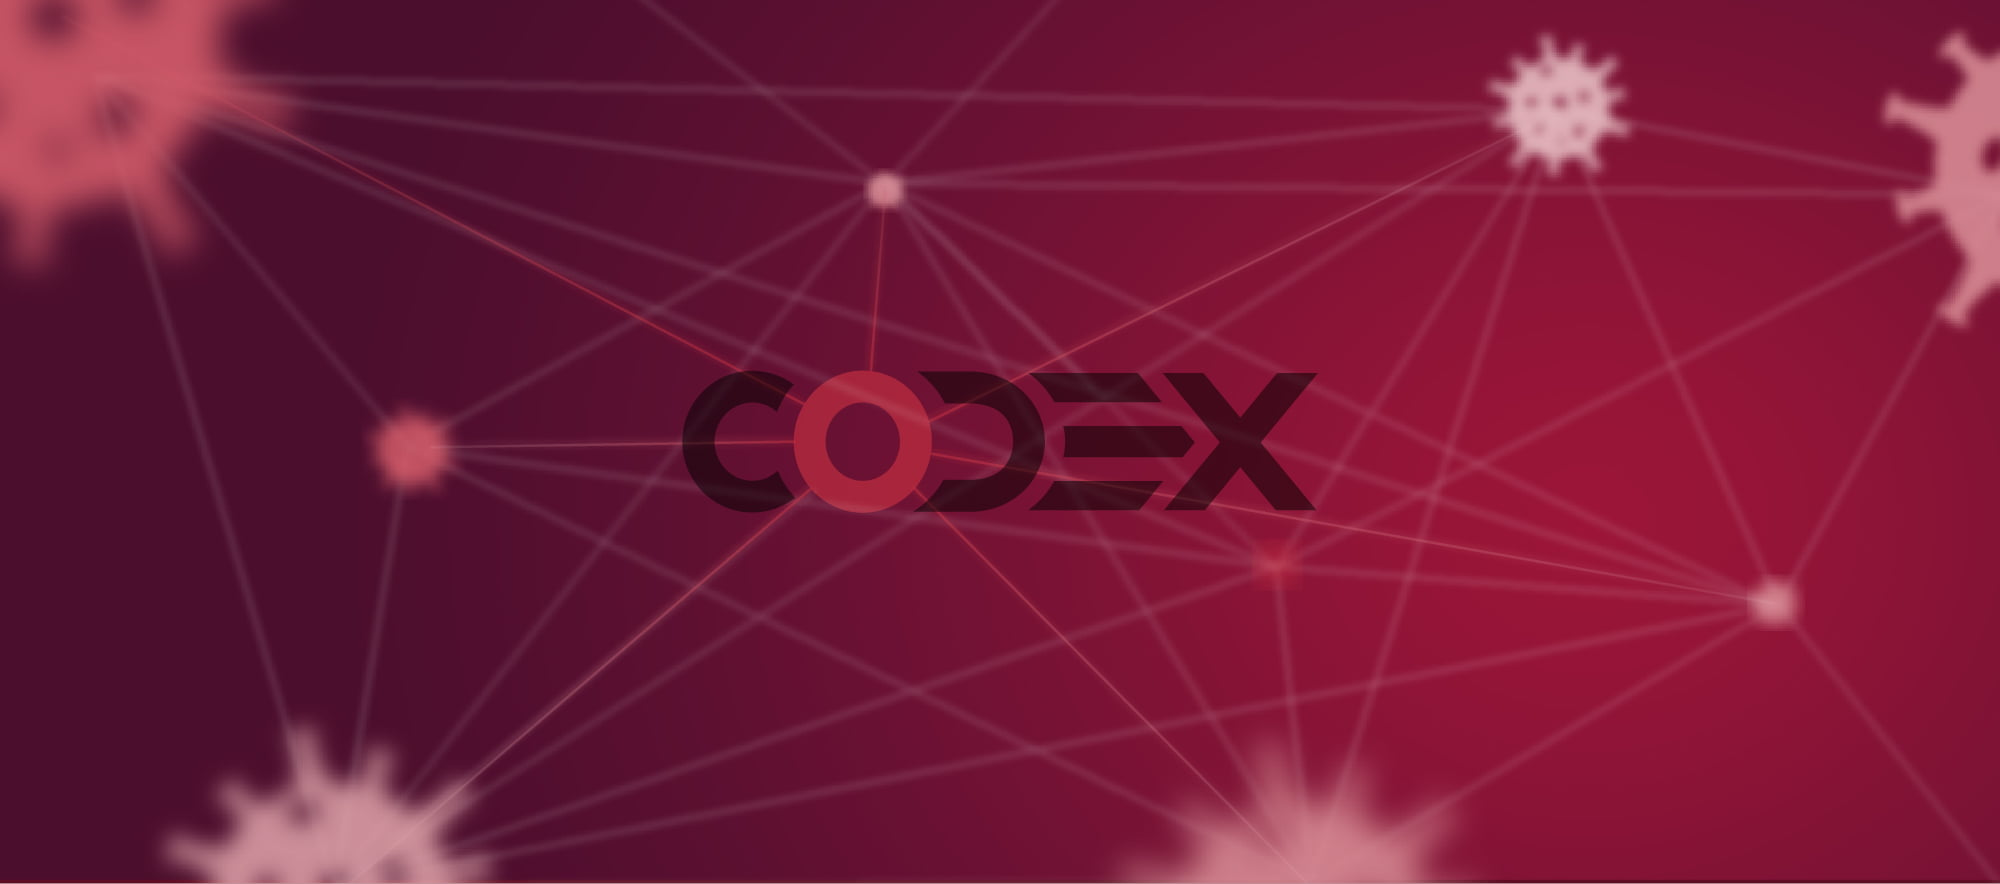
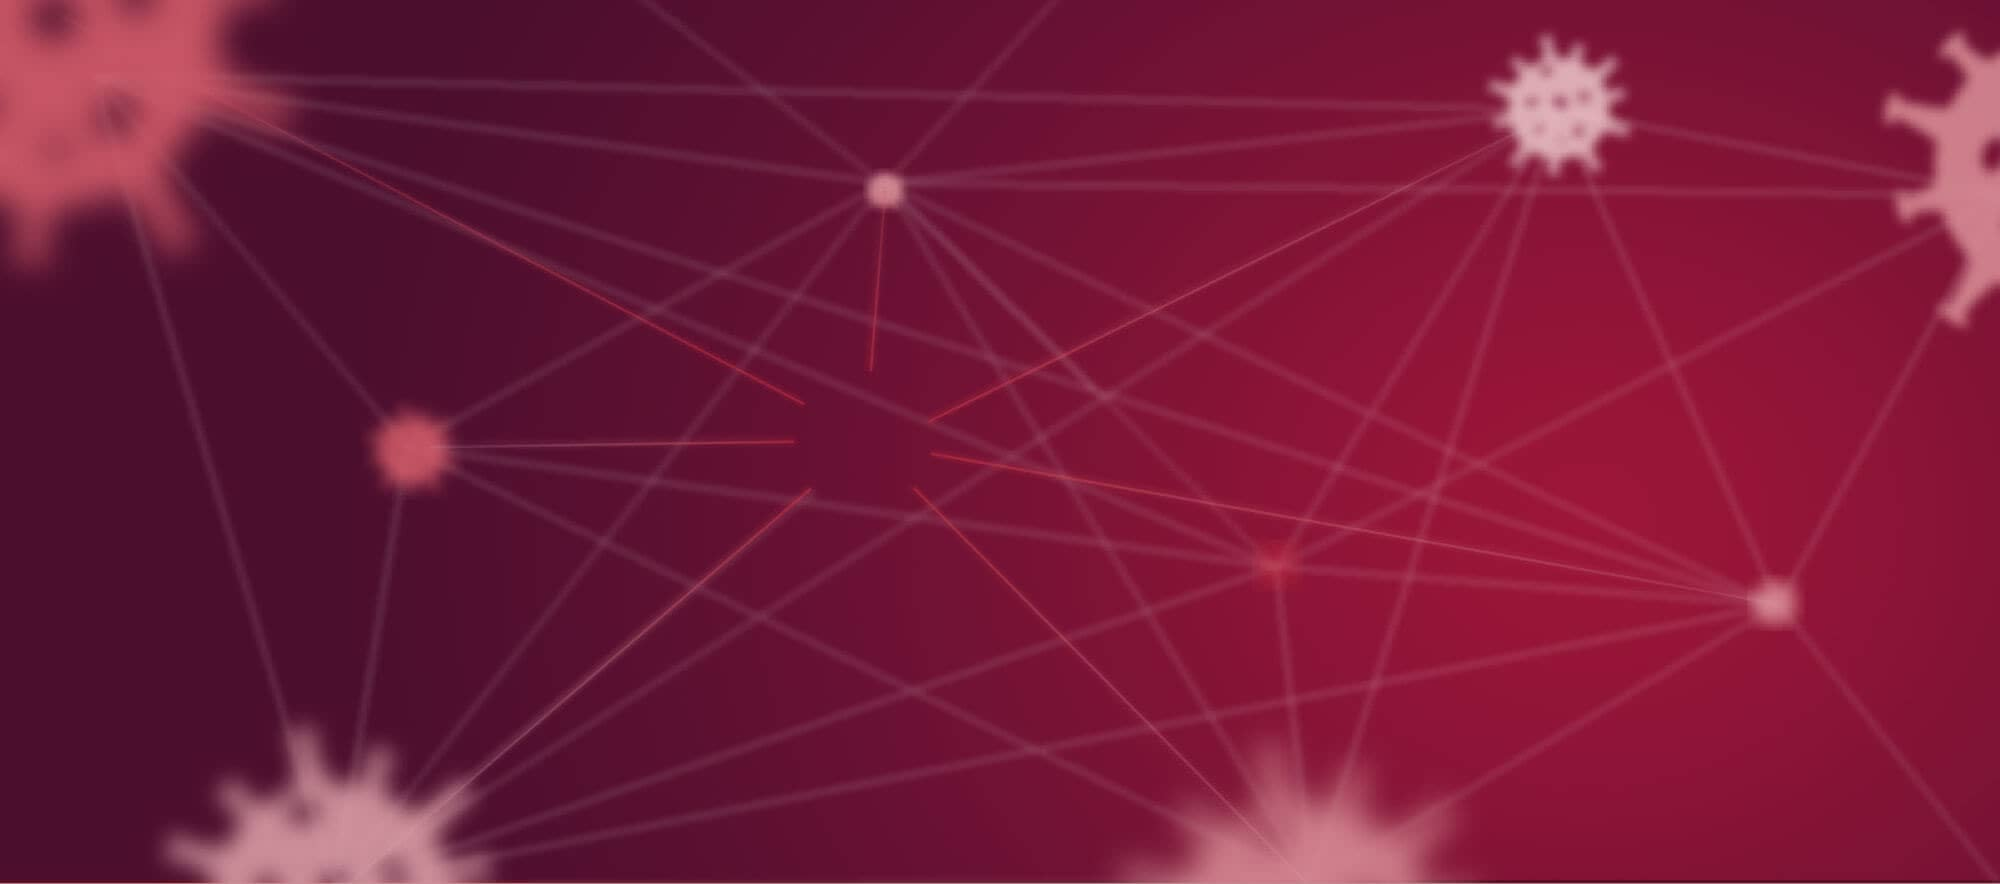
feat(NUM-1308): Animates Header Image

Changed region(s): [[0.341, 0.3971, 0.651, 0.5803]]

diff --git a/src/app/shared/components/logo/logo.component.html b/src/app/shared/components/logo/logo.component.html
@@ -1,0 +1,56 @@
+<svg
+  version="1.1"
+  xmlns="http://www.w3.org/2000/svg"
+  xmlns:xlink="http://www.w3.org/1999/xlink"
+  viewBox="0 0 224.3 50.1"
+  style="overflow: visible; enable-background: new 0 0 224.3 50.1"
+  xml:space="preserve"
+  [ngClass]="{ 'should-animate': ShouldAnimate }"
+>
+  <g>
+    <path
+      class="dark"
+      [attr.stroke-dasharray]="214.08473205566406"
+      [attr.stroke-dashoffset]="214.08473205566406"
+      style="animation-delay: 0.3s"
+      d="M83,0.3h18.3C118,0.3,128,12.7,128,25.1c-0.1,12.3-10.2,24.7-26.7,24.7H81.5c1.8-1.1,3.5-2.4,5-3.9
+      c2.3-2.2,4.2-4.7,5.7-7.3h9.1c11.4,0,15.5-6.7,15.5-13.5c0-6.8-3.9-13.5-15.5-13.5h-8.5c-1.5-3.1-3.6-5.9-6.2-8.3
+      C85.4,2.1,84.3,1.2,83,0.3z"
+    />
+    <path
+      class="dark"
+      [attr.stroke-dasharray]="194.8426055908203"
+      [attr.stroke-dashoffset]="194.8426055908203"
+      d="M39.8,44.8c-6.1,4.7-14.2,6.5-21.9,4.3C7.9,46.2,0.9,37.3,0.1,27S4.8,6.8,14.2,2.4c3.2-1.5,6.7-2.3,10.1-2.3
+      C29.6,0,34.9,1.7,39.3,4.9c-2.6,2.8-4.6,6.1-5.9,9.6c-4-3.5-9.5-4.3-14.2-2.1c-5.1,2.4-8.2,7.8-7.8,13.7c0.5,5.9,4.4,10.7,9.7,12.2
+      c4.5,1.3,9.2,0.1,12.5-3.1C35,38.8,37.1,42,39.8,44.8z"
+    />
+    <path
+      class="light"
+      [attr.stroke-dasharray]="240.25643920898438"
+      [attr.stroke-dashoffset]="240.25643920898438"
+      style="animation-delay: 0.2s"
+      d="M63.7,11.2c3.4,0,6.8,1.4,9.3,4c2.5,2.6,3.9,6.2,3.9,9.9c0,3.7-1.4,7.3-3.9,9.9c-2.5,2.6-5.8,4-9.3,4
+      c-3.4,0-6.8-1.4-9.3-4c-2.5-2.6-3.9-6.2-3.9-9.9C50.5,17.2,56.5,11.2,63.7,11.2z M63.7,0C50.2,0,39.4,11.4,39.4,25.1
+      c0,6.6,2.5,12.9,7.1,17.6c4.5,4.7,10.8,7.4,17.3,7.4c6.5,0,12.7-2.7,17.3-7.4C85.5,38,88,31.6,88,25.1c0-6.6-2.5-12.9-7.1-17.6
+      C76.4,2.7,70.2,0,63.7,0z"
+    />
+    <path
+      class="dark"
+      [attr.stroke-dasharray]="317.1046447753906"
+      [attr.stroke-dashoffset]="317.1046447753906"
+      style="animation-delay: 0.4s"
+      d="M169.7,39l-8.4,10.3h-39.1c3.9-2.8,7-6.3,9.1-10.3C131.4,39,169.7,39,169.7,39z M180.9,25.3l-4.3,5.2h-42.1
+      c0.5-1.8,0.7-3.6,0.7-5.5c0-1.8-0.2-3.7-0.7-5.5h41.7L180.9,25.3L180.9,25.3z M169.3,11.1h-37.8c-2.1-3.9-5.2-7.5-9.1-10.2h38.5
+      L169.3,11.1z"
+    />
+    <path
+      class="dark"
+      [attr.stroke-dasharray]="263.21484375"
+      [attr.stroke-dashoffset]="263.21484375"
+      style="animation-delay: 0.5s"
+      d="M169.7,0.9l20.2,24.5l-19.7,23.9h14.3L197,34l12.6,15.3h14.3l-19.7-23.9l20.2-24.5h-14.3l-13,15.8L184,0.9
+      L169.7,0.9L169.7,0.9z"
+    />
+  </g>
+</svg>

diff --git a/src/app/layout/components/header/header.component.spec.ts b/src/app/layout/components/header/header.component.spec.ts
@@ -11,6 +11,7 @@ import { ButtonComponent } from '../../../shared/components/button/button.compon
 import { LanguageComponent } from '../language/language.component'
 import { HeaderComponent } from './header.component'
 import { FlexLayoutModule } from '@angular/flex-layout'
+import { LogoComponent } from 'src/app/shared/components/logo/logo.component'
 
 describe('HeaderComponent', () => {
   let component: HeaderComponent
@@ -24,6 +25,12 @@ describe('HeaderComponent', () => {
   const firstNavItem: INavItem = {
     routeTo: 'first',
     translationKey: 'first',
+    icon: 'test',
+  }
+
+  const homeNavItem: INavItem = {
+    routeTo: 'home',
+    translationKey: 'home',
     icon: 'test',
   }
 
@@ -49,11 +56,17 @@ describe('HeaderComponent', () => {
     ],
   }
 
-  const mainNavItems = [firstNavItem, secondNavItem, thirdNavItem]
+  const mainNavItems = [firstNavItem, secondNavItem, thirdNavItem, homeNavItem]
 
   beforeEach(async () => {
     await TestBed.configureTestingModule({
-      declarations: [HeaderComponent, LanguageComponent, StubComponent, ButtonComponent],
+      declarations: [
+        HeaderComponent,
+        LanguageComponent,
+        StubComponent,
+        ButtonComponent,
+        LogoComponent,
+      ],
       imports: [
         FontAwesomeTestingModule,
         MaterialModule,
@@ -105,6 +118,25 @@ describe('HeaderComponent', () => {
       expect(component.currentNavId).toEqual('second')
       expect(component.currentMainNavItem).toBe(secondNavItem)
       expect(component.currentTabNav).toBeFalsy()
+    })
+  })
+
+  describe('On ActivationEnd to the home route', () => {
+    const routeSnapshot = ({
+      data: {
+        navId: 'home',
+      },
+    } as unknown) as ActivatedRouteSnapshot
+    const routerEvent = new ActivationEnd(routeSnapshot)
+
+    it('should set the the flag that home was now visited', (done) => {
+      expect(component.isFirstHomeVisit).toBeTruthy()
+      routerEventsSubject.next(routerEvent)
+      fixture.detectChanges()
+      setTimeout(() => {
+        expect(component.isFirstHomeVisit).toBeFalsy()
+        done()
+      }, 1)
     })
   })
 

diff --git a/src/app/shared/components/logo/logo.component.scss b/src/app/shared/components/logo/logo.component.scss
@@ -1,0 +1,66 @@
+:host {
+  height: 100%;
+  width: 100%;
+  display: flex;
+  justify-content: center;
+  align-items: center;
+
+  svg {
+    width: 32%;
+    min-width: 18vh;
+  }
+
+  path {
+    fill-rule: nonzero;
+    stroke: transparent;
+    stroke-width: 1;
+
+    .should-animate & {
+      stroke: grey;
+    }
+  }
+}
+
+.dark {
+  fill: rgba($color: #330f17, $alpha: 0.6);
+
+  .should-animate & {
+    fill: transparent;
+    animation: fillDark 4s forwards;
+  }
+}
+
+.light {
+  fill: rgba($color: #eb586a, $alpha: 0.6);
+
+  .should-animate & {
+    fill: transparent;
+    animation: fillLight 4s forwards;
+  }
+}
+
+@keyframes fillDark {
+  70% {
+    stroke: white;
+    stroke-dashoffset: 0;
+    fill: transparent;
+  }
+  100% {
+    stroke: transparent;
+    stroke-dashoffset: 0;
+    fill: rgba($color: #330f17, $alpha: 0.6);
+  }
+}
+
+@keyframes fillLight {
+  70% {
+    stroke: white;
+    stroke-dashoffset: 0;
+    fill: transparent;
+  }
+  100% {
+    stroke: transparent;
+    stroke-dashoffset: 0;
+    fill: rgba($color: #eb586a, $alpha: 0.6);
+  }
+}

diff --git a/src/app/layout/components/header/header.component.ts b/src/app/layout/components/header/header.component.ts
@@ -12,6 +12,7 @@ import { mainNavItems } from '../../../core/constants/navigation'
 export class HeaderComponent implements OnInit, OnDestroy {
   private subscriptions = new Subscription()
 
+  isFirstHomeVisit = true
   mainNavItems = mainNavItems
   currentNavId: string
   currentMainNavItem: INavItem
@@ -46,5 +47,11 @@ export class HeaderComponent implements OnInit, OnDestroy {
     const navItem = this.mainNavItems.find((item) => item.routeTo === this.currentNavId)
     this.currentMainNavItem = navItem
     this.currentTabNav = navItem?.tabNav
+
+    if (this.isFirstHomeVisit && this.currentNavId === 'home') {
+      setTimeout(() => {
+        this.isFirstHomeVisit = false
+      }, 0)
+    }
   }
 }

diff --git a/src/app/shared/components/shared-components.module.ts b/src/app/shared/components/shared-components.module.ts
@@ -14,6 +14,7 @@ import { DefinitionListComponent } from './definition-list/definition-list.compo
 import { DialogConfirmationComponent } from './dialog-confirmation/dialog-confirmation.component'
 import { TimeInputComponent } from './time-input/time-input.component'
 import { EditorDetermineHitsComponent } from './editor-determine-hits/editor-determine-hits.component'
+import { LogoComponent } from './logo/logo.component'
 
 const SHARED_DECLARATIONS = [
   SearchComponent,
@@ -24,6 +25,7 @@ const SHARED_DECLARATIONS = [
   TimeInputComponent,
   DialogConfirmationComponent,
   EditorDetermineHitsComponent,
+  LogoComponent,
 ]
 
 @NgModule({

diff --git a/src/app/shared/components/logo/logo.component.spec.ts b/src/app/shared/components/logo/logo.component.spec.ts
@@ -1,0 +1,24 @@
+import { ComponentFixture, TestBed } from '@angular/core/testing'
+
+import { LogoComponent } from './logo.component'
+
+describe('LogoComponent', () => {
+  let component: LogoComponent
+  let fixture: ComponentFixture<LogoComponent>
+
+  beforeEach(async () => {
+    await TestBed.configureTestingModule({
+      declarations: [LogoComponent],
+    }).compileComponents()
+  })
+
+  beforeEach(() => {
+    fixture = TestBed.createComponent(LogoComponent)
+    component = fixture.componentInstance
+    fixture.detectChanges()
+  })
+
+  it('should create', () => {
+    expect(component).toBeTruthy()
+  })
+})

diff --git a/src/app/shared/components/logo/logo.component.ts b/src/app/shared/components/logo/logo.component.ts
@@ -1,0 +1,18 @@
+import { Component, Input, OnInit } from '@angular/core'
+
+@Component({
+  selector: 'num-logo',
+  templateUrl: './logo.component.html',
+  styleUrls: ['./logo.component.scss'],
+})
+export class LogoComponent implements OnInit {
+  constructor() {}
+  ShouldAnimate: boolean
+
+  @Input()
+  shouldAnimate: boolean
+
+  ngOnInit(): void {
+    this.ShouldAnimate = this.shouldAnimate
+  }
+}

diff --git a/src/app/layout/components/header/header.component.html b/src/app/layout/components/header/header.component.html
@@ -16,7 +16,9 @@
   class="header-image"
   [ngClass.xs]="{ 'header-image--small': true }"
   *ngIf="currentMainNavItem?.routeTo === 'home'"
-></section>
+>
+  <num-logo [shouldAnimate]="isFirstHomeVisit"></num-logo>
+</section>
 
 <section role="heading" fxLayout="row" fxLayoutAlign="center start" *ngIf="currentMainNavItem">
   <div
